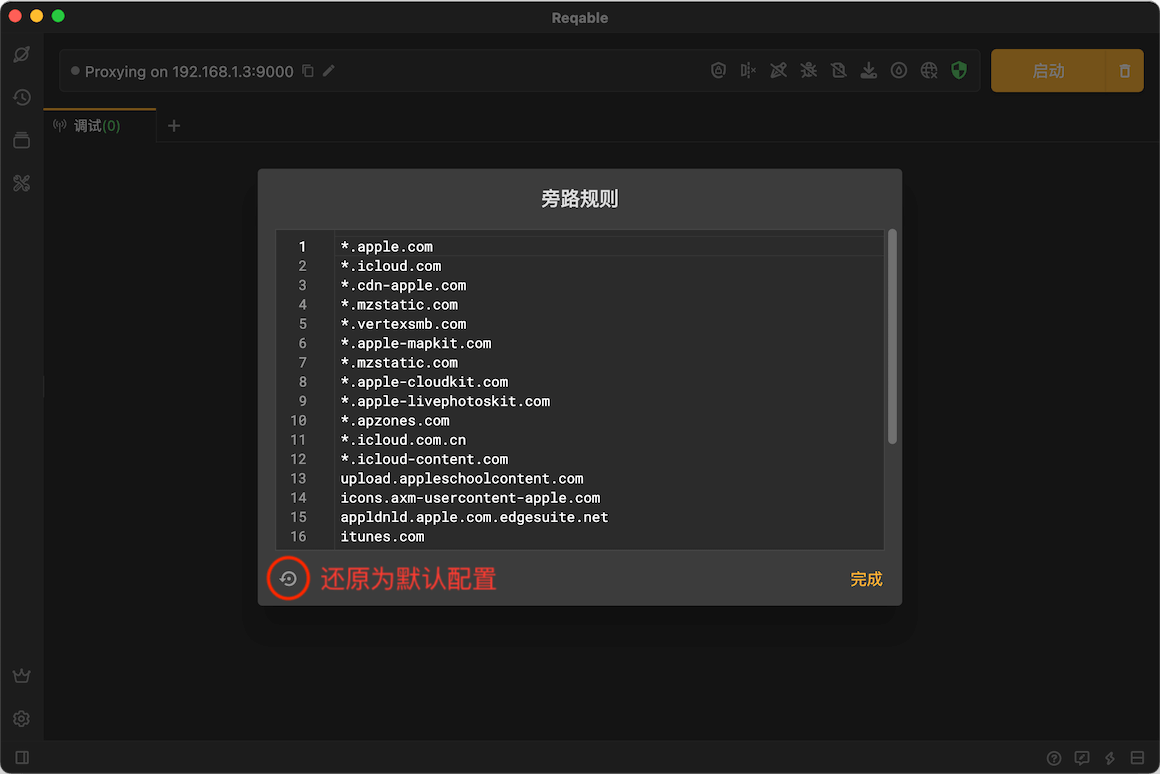
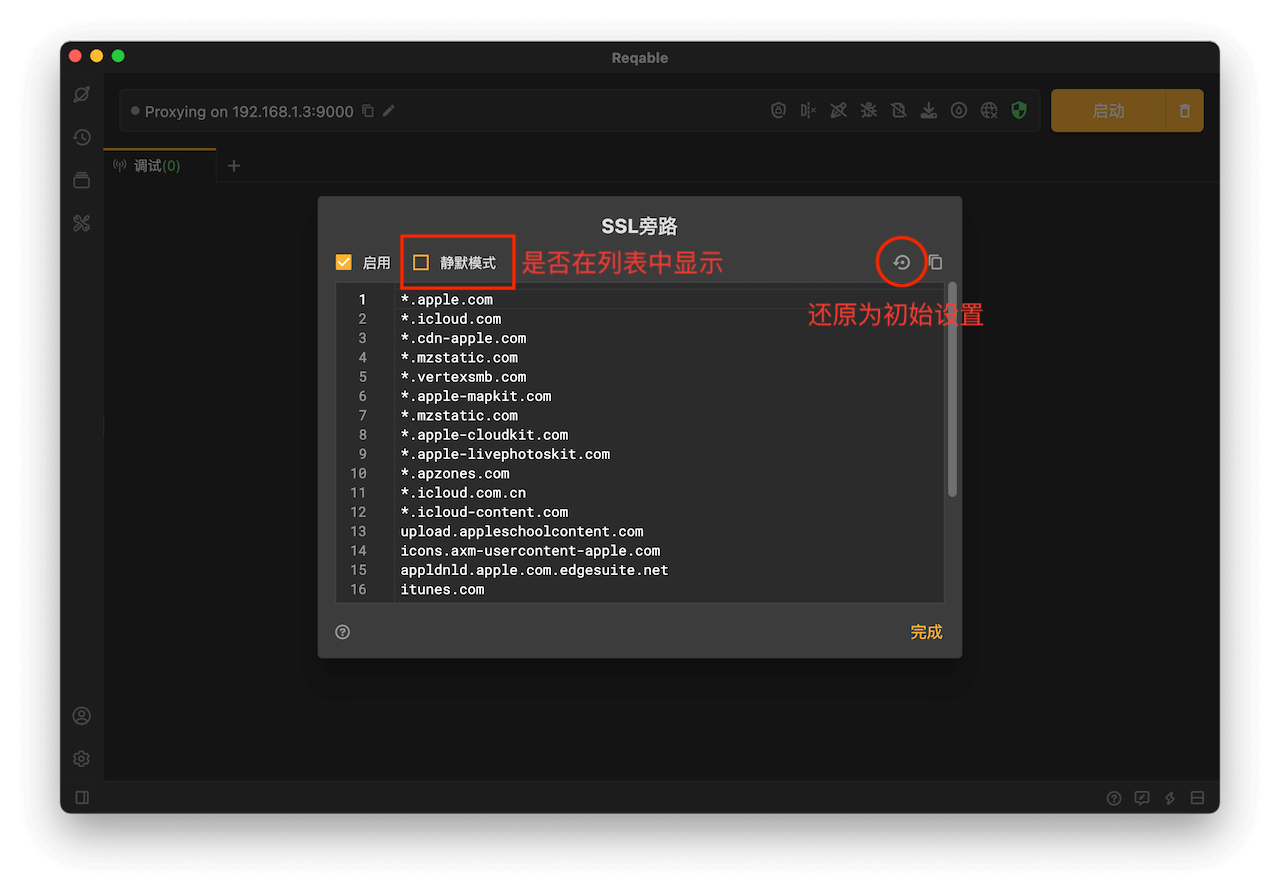
update v1.2.1

diff --git a/zh-CN/capture/12_ssl.md b/zh-CN/capture/12_ssl.md
@@ -4,7 +4,7 @@ Reqable支持分析SSL加密流量，如果已经成功安装了CA根证书，Re
 
 ![](arts/ssl_01.png)
 
-在默认情况下，Reqable自动解析SSL加密流量，可能会带来一些问题。例如客户端固定证书、双向验证等，导致请求失败。这种情况下，我们需要配置旁路规则（SSL Bypass）来让Reqable绕过这些SSL流量。右键点击盾牌图标，在菜单中点击**旁路规则**，可以打开配置界面。
+在默认情况下，Reqable自动解析SSL加密流量，可能会带来一些问题。例如客户端固定证书、双向验证等，导致请求失败。这种情况下，我们需要配置旁路规则（SSL Bypass）来让Reqable绕过这些SSL流量。右键点击盾牌图标，在菜单中点击**SSL旁路**，可以打开配置界面。
 
 ![](arts/ssl_02.png)
 
@@ -17,6 +17,8 @@ Reqable支持分析SSL加密流量，如果已经成功安装了CA根证书，Re
 https://www.apple.com/
 https://api.apple.com/
 ```
+
+匹配上SSL旁路规则的流量仍然会在列表中显示，可以通过🔒的图标分辨出来。如果希望不在列表中显示，可以勾选上`静默模式`。
 
 :::info
 - 配置SSL Bypass有利于过滤掉一些无关的流量，对于提高响应性能有帮助。

diff --git a/en-US/changelogs/linux/index.md b/en-US/changelogs/linux/index.md
@@ -1,5 +1,17 @@
 # Linux
 
+## v1.2.1 <small><small>*2023-08-28*</small></small>
+- 🚀 [New] SSL bypass supports switch and silent mode.
+- 🚀 [New] Supports adding SSL bypass from traffic list.
+- 💪 [Opt] Automatically changing context menu text color when hovering.
+- 💪 [Opt] The right click of the traffic list supports batch copying of URLs.
+- 🐞 [Fix] An exception occurs when generating python code when the root node of JSON is a list.
+- 🐞 [Fix] The bug that localhost requests will not be displayed when the API test is followed by debugging.
+- 🐞 [Fix] The bug that the SSL Bypass requests will not be displayed when the API test is followed by debugging.
+- 🐞 [Fix] The bug that the `Proxy-Connection` header was not removed when sending to remote server.
+- 🐞 [Fix] The bug that some Linux systems cannot open the application and prompt `GLIBCXX_3.4.26 not found`.
+- 🐞 [Fix] Fix the bug that the title bar height of some Linux systems is abnormal.
+
 ## v1.2.0 <small><small>*2023-08-24*</small></small>
 - 💪 [Opt] The UX of expanding the app menu bar.
 - 🚀 [New] Added code snippet for API and traffic.

diff --git a/zh-CN/changelogs/linux/index.md b/zh-CN/changelogs/linux/index.md
@@ -1,5 +1,17 @@
 # Linux
 
+## v1.2.1 <small><small>*2023-08-25*</small></small>
+- 🚀【新功能】SSL旁路规则支持开关和静默模式。
+- 🚀【新功能】调试列表右键支持添加SSL旁路规则。
+- 💪【优化】菜单栏选项鼠标悬浮高亮时文字颜色自动变为白色。
+- 💪【优化】调试列表右键支持批量复制URL。
+- 🐞【修复】生成python代码当JSON根节点为列表时出现异常的bug。
+- 🐞【修复】API中发送localhost请求无法跟随调试的bug。
+- 🐞【修复】API测试在跟随调试时SSL Bypass的请求不会显示在列表中的bug。
+- 🐞【修复】调试流量中`Proxy-Connection`请求头未去除导致的bug。
+- 🐞【修复】部分Linux系统无法打开应用提示`GLIBCXX_3.4.26 not found`的bug。
+- 🐞【修复】部分Linux系统标题栏高度异常的bug。
+
 ## v1.2.0 <small><small>*2023-08-24*</small></small>
 - 💪【优化】应用顶部菜单栏展开的交互方式。
 - 🚀【新功能】新增生成代码功能。

diff --git a/en-US/changelogs/macos/index.md b/en-US/changelogs/macos/index.md
@@ -1,5 +1,15 @@
 # Macos
 
+## v1.2.1 <small><small>*2023-08-28*</small></small>
+- 🚀 [New] SSL bypass supports switch and silent mode.
+- 🚀 [New] Supports adding SSL bypass from traffic list.
+- 💪 [Opt] Automatically changing context menu text color when hovering.
+- 💪 [Opt] The right click of the traffic list supports batch copying of URLs.
+- 🐞 [Fix] An exception occurs when generating python code when the root node of JSON is a list.
+- 🐞 [Fix] The bug that localhost requests will not be displayed when the API test is followed by debugging.
+- 🐞 [Fix] The bug that the SSL Bypass requests will not be displayed when the API test is followed by debugging.
+- 🐞 [Fix] The bug that the `Proxy-Connection` header was not removed when sending to remote server.
+
 ## v1.2.0 <small><small>*2023-08-24*</small></small>
 - 🚀 [New] Added code snippet for API and traffic.
 - 🚀 [New] Added `Clear Cache` and `Reset App` in settings.

diff --git a/en-US/changelogs/windows/index.md b/en-US/changelogs/windows/index.md
@@ -1,5 +1,15 @@
 # Windows
 
+## v1.2.1 <small><small>*2023-08-28*</small></small>
+- 🚀 [New] SSL bypass supports switch and silent mode.
+- 🚀 [New] Supports adding SSL bypass from traffic list.
+- 💪 [Opt] Automatically changing context menu text color when hovering.
+- 💪 [Opt] The right click of the traffic list supports batch copying of URLs.
+- 🐞 [Fix] An exception occurs when generating python code when the root node of JSON is a list.
+- 🐞 [Fix] The bug that localhost requests will not be displayed when the API test is followed by debugging.
+- 🐞 [Fix] The bug that the SSL Bypass requests will not be displayed when the API test is followed by debugging.
+- 🐞 [Fix] The bug that the `Proxy-Connection` header was not removed when sending to remote server.
+
 ## v1.2.0 <small><small>*2023-08-24*</small></small>
 - 🚀 [New] Apps are signed with EV certificates.
 - 💪 [Opt] Change version upgrade pop-up window.

diff --git a/zh-CN/changelogs/macos/index.md b/zh-CN/changelogs/macos/index.md
@@ -1,5 +1,15 @@
 # Macos
 
+## v1.2.1 <small><small>*2023-08-25*</small></small>
+- 🚀【新功能】SSL旁路规则支持开关和静默模式。
+- 🚀【新功能】调试列表右键支持添加SSL旁路规则。
+- 💪【优化】菜单栏选项鼠标悬浮高亮时文字颜色自动变为白色。
+- 💪【优化】调试列表右键支持批量复制URL。
+- 🐞【修复】生成python代码当JSON根节点为列表时出现异常的bug。
+- 🐞【修复】API中发送localhost请求无法跟随调试的bug。
+- 🐞【修复】API测试在跟随调试时SSL Bypass的请求不会显示在列表中的bug。
+- 🐞【修复】调试流量中`Proxy-Connection`请求头未去除导致的bug。
+
 ## v1.2.0 <small><small>*2023-08-24*</small></small>
 - 🚀【新功能】新增生成代码功能。
 - 🚀【新功能】新增`清除缓存`和`重置应用`功能。

diff --git a/zh-CN/changelogs/windows/index.md b/zh-CN/changelogs/windows/index.md
@@ -1,5 +1,15 @@
 # Windows
 
+## v1.2.1 <small><small>*2023-08-25*</small></small>
+- 🚀【新功能】SSL旁路规则支持开关和静默模式。
+- 🚀【新功能】调试列表右键支持添加SSL旁路规则。
+- 💪【优化】菜单栏选项鼠标悬浮高亮时文字颜色自动变为白色。
+- 💪【优化】调试列表右键支持批量复制URL。
+- 🐞【修复】生成python代码当JSON根节点为列表时出现异常的bug。
+- 🐞【修复】API中发送localhost请求无法跟随调试的bug。
+- 🐞【修复】API测试在跟随调试时SSL Bypass的请求不会显示在列表中的bug。
+- 🐞【修复】调试流量中`Proxy-Connection`请求头未去除导致的bug。
+
 ## v1.2.0 <small><small>*2023-08-24*</small></small>
 - 🚀【新功能】应用使用EV证书签名。
 - 💪【优化】替换版本升级弹窗。
